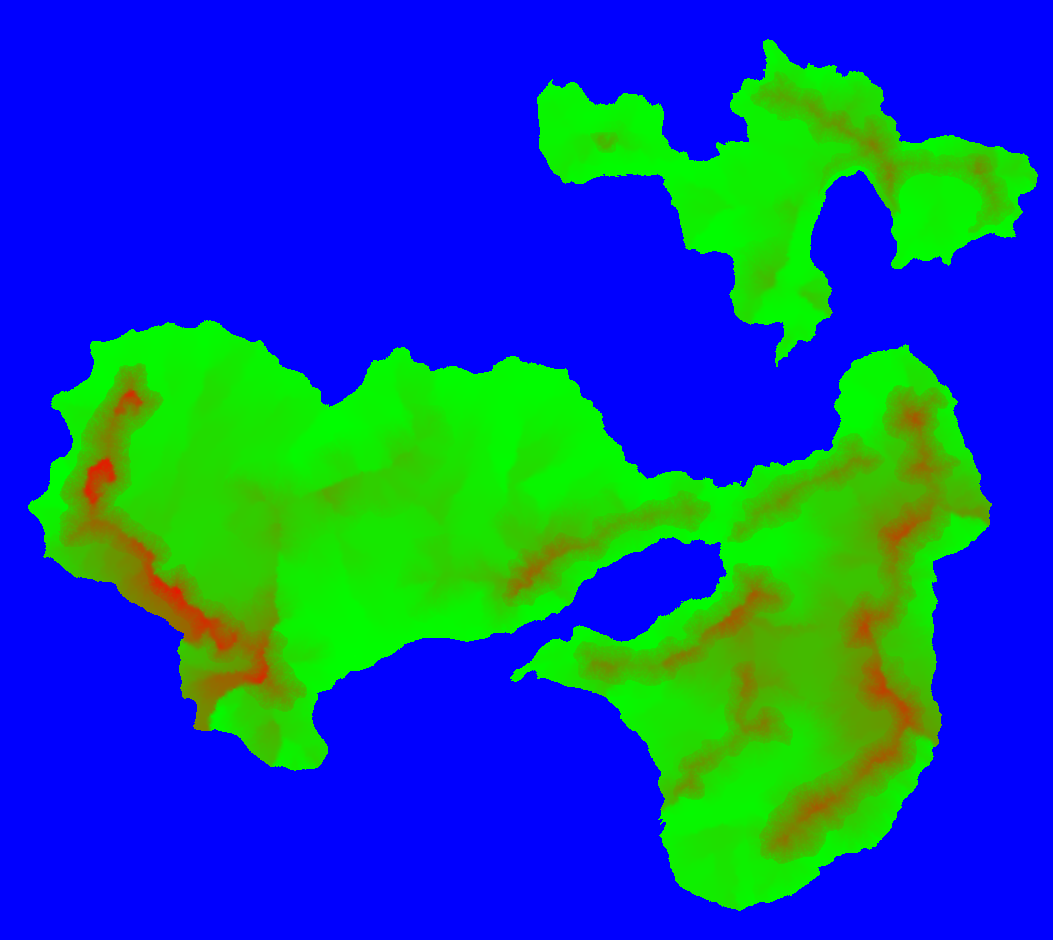
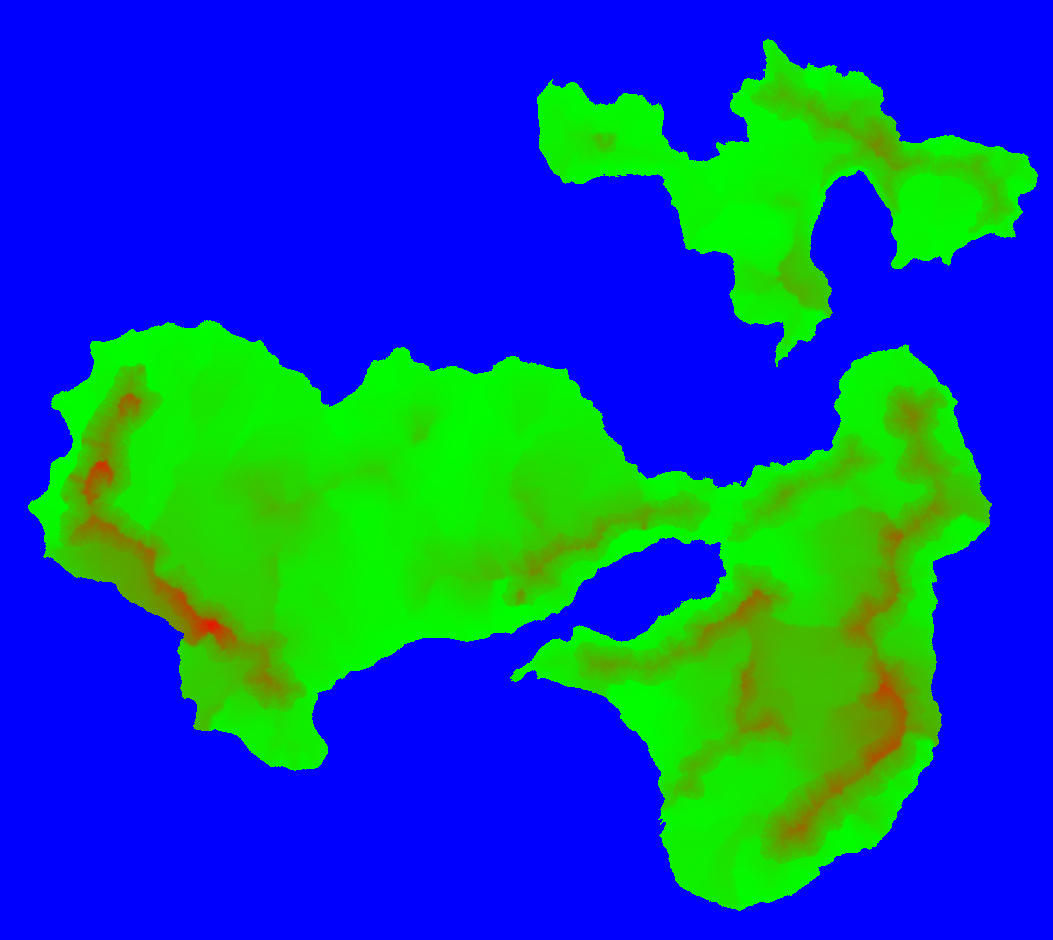
Created rivergen

diff --git a/fantasy-colonialism-mapgen/FantasyColonialismMapgen/Map.cs b/fantasy-colonialism-mapgen/FantasyColonialismMapgen/Map.cs
@@ -20,7 +20,7 @@ namespace FantasyColonialismMapgen
             height = db.getIntFromQuery("SELECT MAX(y) FROM \"Points\";") + 1;
 
 
-            string query = "SELECT p1.id, p1.worldPointId, p1.x, p1.y, p1.land, p1.waterSalinity, p1.provinceId, p1.latitude, p1.longitude, p1.coastalDistance, p1.width, p1.length, p1.area, p1.height, p1.summerSolsticeAverageTemperature, p1.winterSolsticeAverageTemperature, p1.averageRainfall, p1.type  FROM \"Points\" p1 order by X,Y;";
+            string query = "SELECT p1.id, p1.worldPointId, p1.x, p1.y, p1.land, p1.waterSalinity, p1.provinceId, p1.latitude, p1.longitude, p1.coastalDistance, p1.width, p1.length, p1.area, p1.height, p1.summerSolsticeAverageTemperature, p1.winterSolsticeAverageTemperature, p1.averageRainfall, p1.type, p1.terraintype  FROM \"Points\" p1 order by X,Y;";
             pointMap = new Point[height][];
             for (int i = 0; i < height; i++)
             {
@@ -52,7 +52,9 @@ namespace FantasyColonialismMapgen
                 double winterSolsticeAverageTemperature = !rdr.IsDBNull(15) ? rdr.GetDouble(15) : -1.0;
                 double averageRainfall = !rdr.IsDBNull(16) ? rdr.GetDouble(16) : -1.0;
                 PointType type = !rdr.IsDBNull(17) ? Point.stringToPointType(rdr.GetString(17)) : PointType.undefined;
-                pointMap[y][x] = new Point(id, worldPointId, x, y, land, waterSalinity, type, provinceId, latitude, longitude, coastalDistance, widthVal, length, area, heightVal, summerSolsticeAverageTemperature, winterSolsticeAverageTemperature, averageRainfall);
+                TerrainType terrainType = !rdr.IsDBNull(18) ? Point.stringToTerrainType(rdr.GetString(18)) : TerrainType.undefined;
+
+                pointMap[y][x] = new Point(id, worldPointId, x, y, land, waterSalinity, type, provinceId, latitude, longitude, coastalDistance, widthVal, length, area, heightVal, summerSolsticeAverageTemperature, winterSolsticeAverageTemperature, averageRainfall, terrainType);
                 if (x == 700 && (y % 100) == 0)
                 {
                     Console.WriteLine(pointMap[y][x]);
@@ -74,6 +76,12 @@ namespace FantasyColonialismMapgen
         public List<Point> getNeighborsPlus(int x, int y)
         {
             var points = Point.getNeighborsPlusSafe((x, y), width, height);
+            return points.Select(p => getPoint(p.Item1, p.Item2)).ToList();
+        }
+
+        public List<Point> getNeighborsPlus(Point p)
+        {
+            var points = Point.getNeighborsPlusSafe((p.X, p.Y), width, height);
             return points.Select(p => getPoint(p.Item1, p.Item2)).ToList();
         }
 

diff --git a/fantasy-colonialism-mapgen/FantasyColonialismMapgen/River.cs b/fantasy-colonialism-mapgen/FantasyColonialismMapgen/River.cs
@@ -1,0 +1,49 @@
+using System;
+using System.Collections.Generic;
+using System.Linq;
+using System.Text;
+using System.Threading.Tasks;
+
+namespace FantasyColonialismMapgen
+{
+    class River
+    {
+        private int id;//The ID of the river.
+        //All points within the lake including
+        List<Point> riverPoints;
+        private Point headwater;
+        private Point outflowPoint;//The point from which the lake outflows.
+
+        public int tributaryId;//The id of the tributary which this flows into.
+        public WaterType tributaryType;//The type of tributary this flows into.
+
+
+        public int Id { get => id; set => id = value;  }
+        public List<Point> RiverPoints { get => riverPoints; }
+        public Point Headwater { get => headwater; set => headwater = value; }
+        public Point OutflowPoint { get => outflowPoint; set => outflowPoint = value; }
+        public int TributaryId { get => tributaryId; set => tributaryId = value; }
+        public WaterType TributaryType { get => tributaryType; set => tributaryType = value; }
+
+
+        public River(int id, Point headwater)
+        {
+            riverPoints = new List<Point>();
+            this.id = id;
+            this.headwater = headwater;
+        }
+
+        public void addRiverPoint(Point p)
+        {
+            riverPoints.Add(p);
+        }
+
+    }
+
+    enum WaterType
+    {
+        river,
+        lake,
+        ocean
+    }
+}

diff --git a/fantasy-colonialism-mapgen/FantasyColonialismMapgen/Lake.cs b/fantasy-colonialism-mapgen/FantasyColonialismMapgen/Lake.cs
@@ -8,9 +8,9 @@ namespace FantasyColonialismMapgen
 {
     class Lake
     {
-        private int id;//The ID of the lake.
         //All points within the lake including
         List<Point> lakePoints;
+        private int id;
         private float waterSalinity = .07f;//Stub
         private int lakeRimHeight;
         private int lakeBedHeight;
@@ -30,7 +30,7 @@ namespace FantasyColonialismMapgen
 
 
 
-        public Lake(List<Point> lakePoints, int lakeRimHeight, int lakeBedHeight, double outflowVolumePerSecond, double volume)
+        public Lake(int id, List<Point> lakePoints, int lakeRimHeight, int lakeBedHeight, double outflowVolumePerSecond, double volume)
         {
             this.id = id;
             this.lakePoints = lakePoints;
